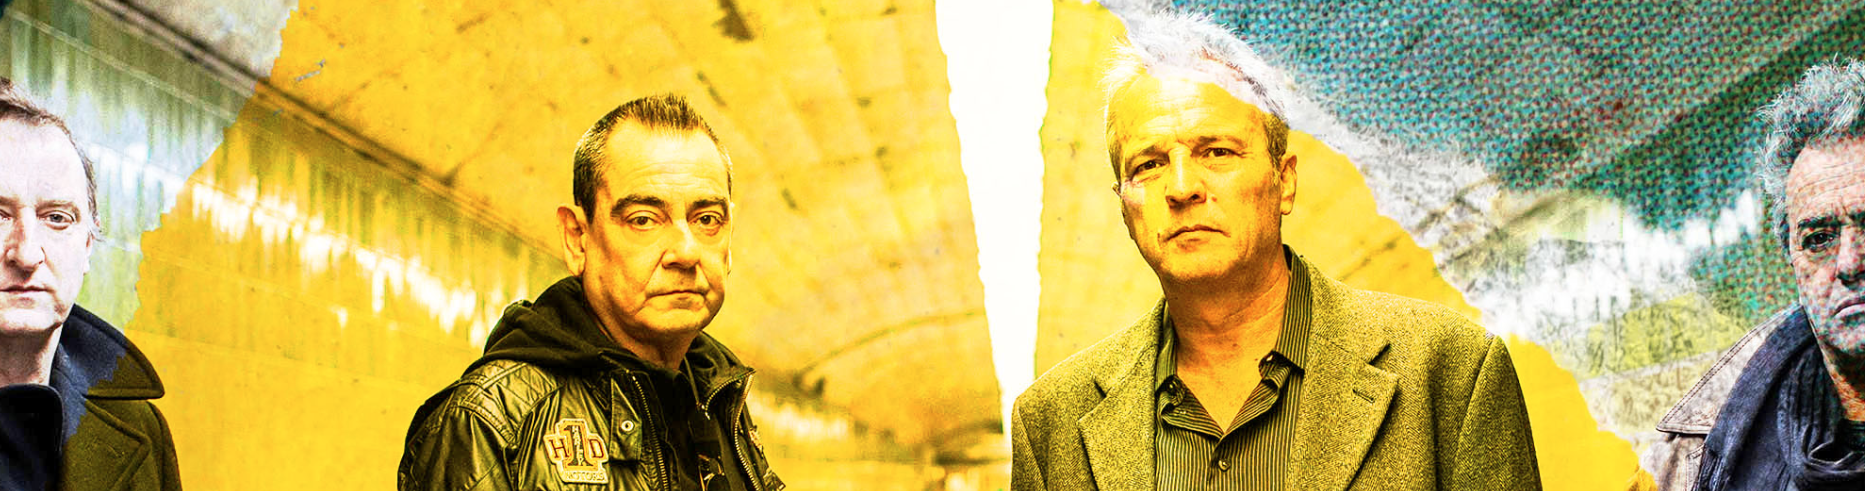
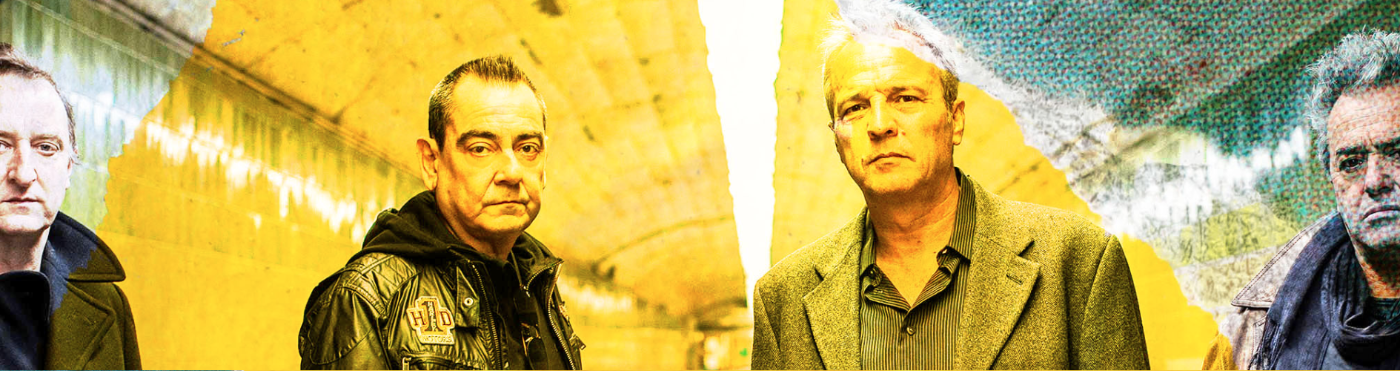
Responsive toda la web

diff --git a/multimedia.css b/multimedia.css
@@ -1,12 +1,14 @@
 *{
     padding: 0;
     margin: 0;
+    box-sizing: border-box;
 }
 
 body{
     width: 100%;
     font-family: system-ui, -apple-system, BlinkMacSystemFont, 'Segoe UI', Roboto, Oxygen, Ubuntu, Cantarell, 'Open Sans', 'Helvetica Neue', sans-serif;
     background-color: #ffcc00;
+
 }
 
 .parallax-completo{
@@ -14,7 +16,7 @@ body{
     height: 100vh;
     background-image: url('./assets/hombresGgrupo.png');
     background-position: center;
-    /* background-size: cover; */
+    background-size: contain;
     background-repeat: no-repeat;
     /* Efecto Parallax */
     background-attachment: fixed;
@@ -66,7 +68,7 @@ h2{
     height: 60vh;
     background-image: url("./assets/gafas.png");
     background-position: center;
-    /* background-size: cover; */
+    background-size: contain;
     background-repeat: no-repeat;
     background-attachment: fixed;
 }
@@ -108,7 +110,7 @@ video {
     height: 100vh;
     background-image: url('./assets/audio.png');
     background-position: center;
-    /* background-size: cover; */
+    background-size: contain;
     background-repeat: no-repeat;
     /* Efecto Parallax */
     background-attachment: fixed;
@@ -123,12 +125,33 @@ video {
   }
 
   .parallax-small-audio {
-    /* height: 450px; */
+    height: 100vh;
     width: 100%;
     height: 95vh;
     background-image: url("./assets/gira.png");
     background-position: center;
-    /* background-size: cover; */
+    background-size: contain;
     background-repeat: no-repeat;
     background-attachment: fixed;
+    margin-bottom: 150px;
 }
+
+/* Media */
+
+@media screen and (max-width: 1300px) {
+    /* .parallax-completo {
+        background-size: cover;
+        padding: 25rem;
+    } */
+    div.texto-hero{
+        width: 11rem;
+        
+    }
+    h2 {
+        font-size: 1.75rem;
+    }
+    svg{
+        height: 24px;
+        width: 24px;
+    }
+  }

diff --git a/multimedia.html b/multimedia.html
@@ -46,7 +46,7 @@
     </nav>
     <!-- MENU hasta aquí -->
 
-    <header class="parallax-completo">
+    <section class="parallax-completo">
         <div class="texto-hero">
             <h2>VIDEOS</h2>
             <svg xmlns="http://www.w3.org/2000/svg" class="icon icon-tabler icon-tabler-arrow-narrow-down" width="44"
@@ -58,7 +58,7 @@
                 <path d="M8 15l4 4" />
             </svg>
         </div>
-    </header>
+    </section>
 
     <section class="d-flex w-100">
         <article class="ms-5 d-flex row justify-content-center">
@@ -101,11 +101,11 @@
 
 
     <section class="d-flex justify-content-center mt-5">
-        <article class="ms-5 d-flex">
+        <article class="ms-5 d-flex flex-lg-row flex-column">
 
-            <audio src="audio.mp3" controls></audio>
+            <audio src="audio.mp3" class="me-2 mb-2" controls></audio>
 
-            <audio src="audio.mp3" controls></audio>
+            <audio src="audio.mp3"class="me-2 mb-2" controls></audio>
 
             <audio src="audio.mp3" controls></audio>
 
@@ -119,6 +119,8 @@
 
     <section class="parallax-small-audio">
     </section>
+
+ 
 
     <!-- <section class="center espacio">
         <h2>Parrallax Demo</h2>
@@ -177,6 +179,7 @@
 
 
     <!-- FOOTER  -->
+
     <footer class="bg-light text-light py-3 fixed-bottom">
         <div class="container-fluid">
                 <div class="col-md-10 d-flex container-fluid justify-content-center">
